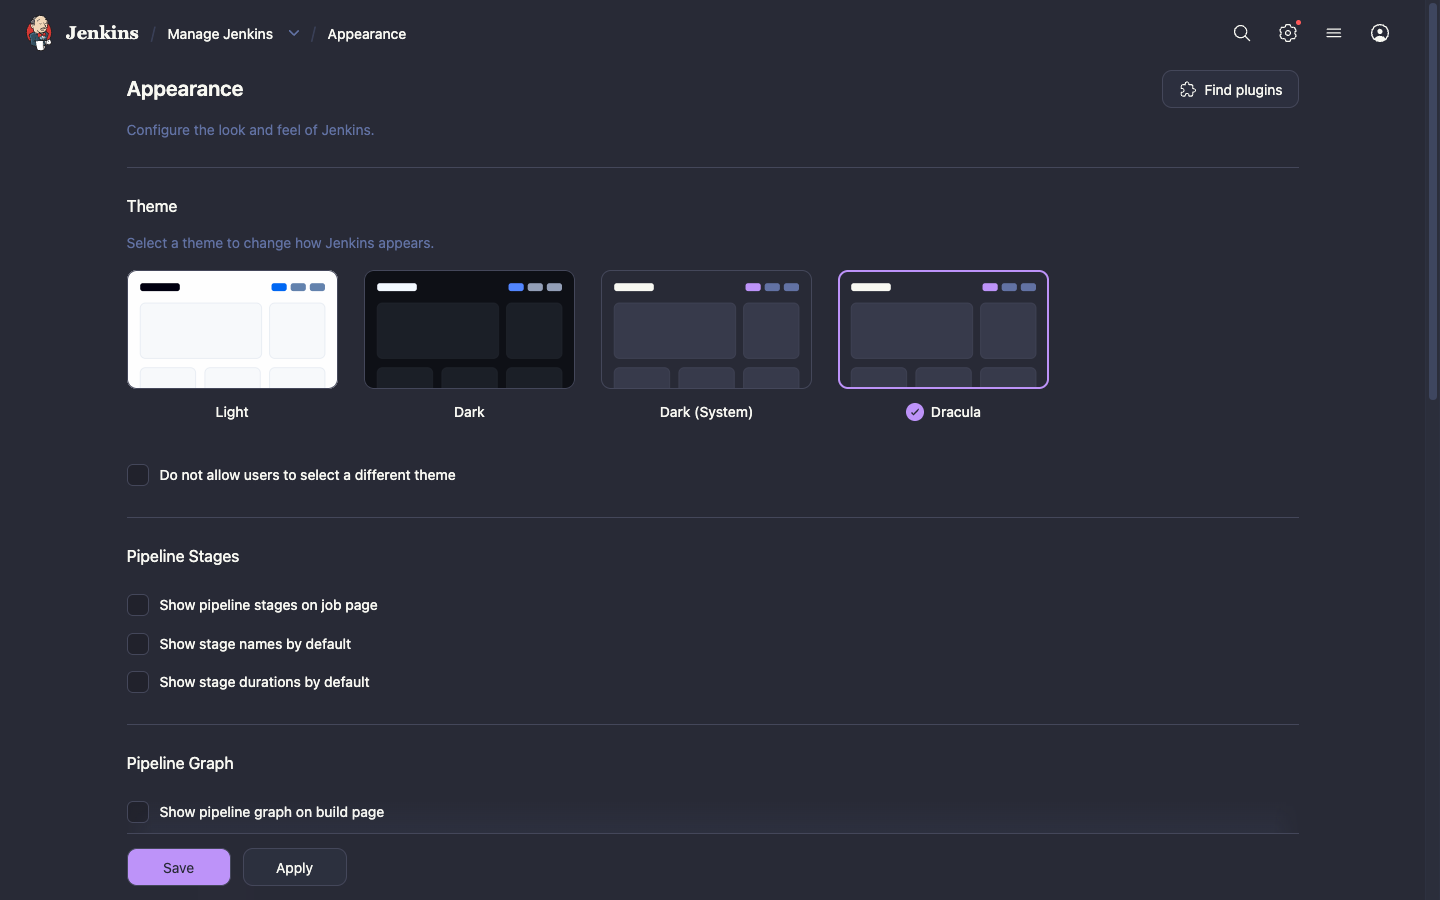
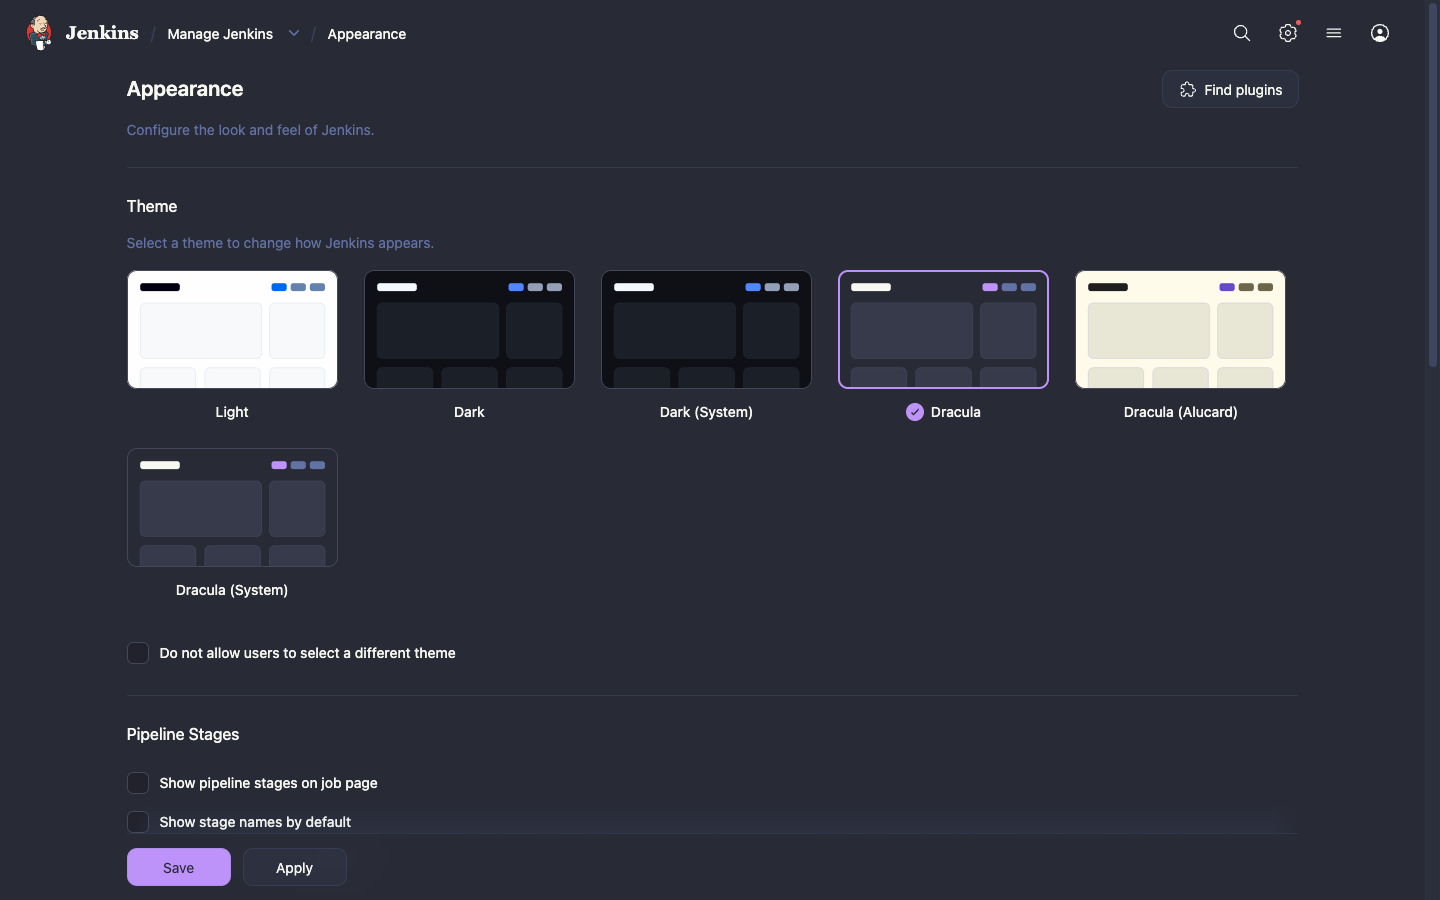
docs(readme): describe the light and system themes

diff --git a/README.md b/README.md
@@ -2,7 +2,7 @@
 
 # 🧛🏻♂ Dracula Theme for Jenkins
 
-A dark theme for Jenkins, built on the official [Dracula](https://draculatheme.com) color palette.
+Dark and light themes for Jenkins, built on the official [Dracula](https://draculatheme.com) color palette.
 
 [![Jenkins Plugin](https://img.shields.io/jenkins/plugin/v/dracula-theme?label=version&style=flat-square&color=bd93f9&labelColor=282a36)](https://plugins.jenkins.io/dracula-theme/)
 [![Build](https://ci.jenkins.io/buildStatus/icon?job=Plugins%2Fdracula-theme-plugin%2Fmain&style=flat-square&subject=build)](https://ci.jenkins.io/job/Plugins/job/dracula-theme-plugin/job/main/)
@@ -14,14 +14,17 @@ A dark theme for Jenkins, built on the official [Dracula](https://draculatheme.c
 
 ## Features
 
-- **The whole Jenkins UI in Dracula colors.** Pages, side panels, cards, tables, forms, buttons, tooltips, dropdowns and dialogs use the [Dracula Classic spec](https://draculatheme.com/spec).
-- **Status colors from the palette.** Successful, failed and unstable builds use Dracula green, red and orange.
-- **Built on Jenkins design tokens.** The theme sets only the Jenkins design tokens, so everything that uses them gets the palette with no extra CSS: [Pipeline Graph View](https://plugins.jenkins.io/pipeline-graph-view/), the Pipeline editor, the Script Console, Prism code views such as JUnit stack traces, and more.
-- **Dark Bootstrap pages.** Bootstrap 5 pages, such as [Warnings Next Generation](https://plugins.jenkins.io/warnings-ng/) and [Coverage](https://plugins.jenkins.io/coverage/), switch to the dark Bootstrap color mode.
-- **Native browser controls in dark mode.** Scrollbars, checkboxes and select menus are dark too.
+- **Three themes.** **Dracula** is the dark theme. **Dracula (Alucard)** uses Alucard, the official light variant of the palette. **Dracula (System)** follows the dark mode setting of the operating system and switches between the two.
+- **The whole Jenkins UI in Dracula colors.** Pages, side panels, cards, tables, forms, buttons, tooltips, dropdowns and dialogs use the colors of the [Dracula spec](https://draculatheme.com/spec).
+- **Status colors from the palette.** Successful, failed and unstable builds use the green, red and orange of the palette.
+- **Built on Jenkins design tokens.** The themes set only the Jenkins design tokens, so everything that uses them gets the palette with no extra CSS: [Pipeline Graph View](https://plugins.jenkins.io/pipeline-graph-view/), the Pipeline editor, the Script Console, Prism code views such as JUnit stack traces, and more.
+- **Bootstrap pages follow the theme.** Bootstrap 5 pages, such as [Warnings Next Generation](https://plugins.jenkins.io/warnings-ng/) and [Coverage](https://plugins.jenkins.io/coverage/), switch to the dark or the light Bootstrap color mode.
+- **Native browser controls to match.** Scrollbars, checkboxes and select menus are dark with Dracula and light with Alucard.
 - **No stale styles after upgrades.** The stylesheet URL has a content hash, so browsers load the new CSS after a plugin update.
 
 ## Screenshots
+
+### Dracula
 
 <table>
   <tr>
@@ -42,10 +45,23 @@ A dark theme for Jenkins, built on the official [Dracula](https://draculatheme.c
   </tr>
 </table>
 
+### Dracula (Alucard)
+
+<table>
+  <tr>
+    <td width="50%"><img src="docs/images/dashboard-light.png" alt="Jenkins dashboard with the Dracula (Alucard) theme"><p align="center"><b>Dashboard</b></p></td>
+    <td width="50%"><img src="docs/images/pipeline-graph-light.png" alt="Pipeline Graph View with a failed stage in the light theme"><p align="center"><b>Pipeline Graph View</b></p></td>
+  </tr>
+  <tr>
+    <td><img src="docs/images/test-result-light.png" alt="JUnit test result with a stack trace in the light theme"><p align="center"><b>JUnit test result</b></p></td>
+    <td><img src="docs/images/warnings-ng-light.png" alt="Warnings Next Generation report in the light theme"><p align="center"><b>Warnings Next Generation</b></p></td>
+  </tr>
+</table>
+
 ## Installation
 
 The plugin needs Jenkins 2.541.3 or newer. The [Theme Manager](https://plugins.jenkins.io/theme-manager/) plugin is installed with it as a dependency.
-The theme was checked page by page on Jenkins 2.580.1 in Chrome.
+The themes were checked page by page on Jenkins 2.580.1 in Chrome.
 
 **From the Update Center:**
 
@@ -60,10 +76,10 @@ The theme was checked page by page on Jenkins 2.580.1 in Chrome.
 
 ## Usage
 
-**For the whole instance:** go to **Manage Jenkins » Appearance**, select **Dracula** and click **Save**.
-To use Dracula for every user, also select **Do not allow users to select a different theme**.
+**For the whole instance:** go to **Manage Jenkins » Appearance**, select **Dracula**, **Dracula (Alucard)** or **Dracula (System)** and click **Save**.
+To use the theme for every user, also select **Do not allow users to select a different theme**.
 
-**For one user:** open your user menu, go to **Appearance** and select **Dracula**.
+**For one user:** open your user menu, go to **Appearance** and select one of the Dracula themes.
 
 ### Configuration as Code
 
@@ -76,23 +92,28 @@ appearance:
     theme: "dracula"
 ```
 
+Use `"draculaAlucard"` for Dracula (Alucard) and `"draculaSystem"` for Dracula (System).
+
 ## Palette
 
-The theme sets these Jenkins design tokens to the Dracula colors:
+The themes set these Jenkins design tokens to the colors of the [Dracula spec](https://draculatheme.com/spec):
 
-| Color        | Hex       | Swatch                                                                         | Jenkins tokens                            |
-| ------------ | --------- | ------------------------------------------------------------------------------ | ----------------------------------------- |
-| Background   | `#282a36` | ![#282a36](https://img.shields.io/badge/%20-282a36?style=flat-square)          | `--background`                            |
-| Selection    | `#44475a` | ![#44475a](https://img.shields.io/badge/%20-44475a?style=flat-square)          | `--selection-color`, border tokens        |
-| Foreground   | `#f8f8f2` | ![#f8f8f2](https://img.shields.io/badge/%20-f8f8f2?style=flat-square)          | `--text-color`                            |
-| Comment      | `#6272a4` | ![#6272a4](https://img.shields.io/badge/%20-6272a4?style=flat-square)          | `--text-color-secondary`, `--indigo`      |
-| Cyan         | `#8be9fd` | ![#8be9fd](https://img.shields.io/badge/%20-8be9fd?style=flat-square)          | `--cyan`, `--teal`                        |
-| Green        | `#50fa7b` | ![#50fa7b](https://img.shields.io/badge/%20-50fa7b?style=flat-square)          | `--green`                                 |
-| Orange       | `#ffb86c` | ![#ffb86c](https://img.shields.io/badge/%20-ffb86c?style=flat-square)          | `--orange`, `--brown`                     |
-| Pink         | `#ff79c6` | ![#ff79c6](https://img.shields.io/badge/%20-ff79c6?style=flat-square)          | `--pink`                                  |
-| Purple       | `#bd93f9` | ![#bd93f9](https://img.shields.io/badge/%20-bd93f9?style=flat-square)          | `--accent-color`, `--blue`, `--purple`    |
-| Red          | `#ff5555` | ![#ff5555](https://img.shields.io/badge/%20-ff5555?style=flat-square)          | `--red`                                   |
-| Yellow       | `#f1fa8c` | ![#f1fa8c](https://img.shields.io/badge/%20-f1fa8c?style=flat-square)          | `--yellow`                                |
+| Color                | Dracula                                                                          | Alucard                                                                          | Jenkins tokens                                  |
+| -------------------- | -------------------------------------------------------------------------------- | -------------------------------------------------------------------------------- | ----------------------------------------------- |
+| Background           | ![#282a36](https://img.shields.io/badge/%20-282a36?style=flat-square) `#282a36`  | ![#fffbeb](https://img.shields.io/badge/%20-fffbeb?style=flat-square) `#fffbeb`  | `--background`                                  |
+| Cards and tables     | ![#353747](https://img.shields.io/badge/%20-353747?style=flat-square) `#353747`  | ![#efeddc](https://img.shields.io/badge/%20-efeddc?style=flat-square) `#efeddc`  | `--card-background`, `--table-background`, `--light-grey`, `--very-light-grey` |
+| Floating surfaces    | ![#343746](https://img.shields.io/badge/%20-343746?style=flat-square) `#343746`  | ![#efeddc](https://img.shields.io/badge/%20-efeddc?style=flat-square) `#efeddc`  | `--overlay-surface-background`                  |
+| Inputs               | ![#21222c](https://img.shields.io/badge/%20-21222c?style=flat-square) `#21222c`  | ![#fffbeb](https://img.shields.io/badge/%20-fffbeb?style=flat-square) `#fffbeb`  | `--input-color`                                 |
+| Selection            | ![#44475a](https://img.shields.io/badge/%20-44475a?style=flat-square) `#44475a`  | ![#cfcfde](https://img.shields.io/badge/%20-cfcfde?style=flat-square) `#cfcfde`  | `--selection-color`, border tokens, `--medium-grey` |
+| Foreground           | ![#f8f8f2](https://img.shields.io/badge/%20-f8f8f2?style=flat-square) `#f8f8f2`  | ![#1f1f1f](https://img.shields.io/badge/%20-1f1f1f?style=flat-square) `#1f1f1f`  | `--text-color`                                  |
+| Comment              | ![#6272a4](https://img.shields.io/badge/%20-6272a4?style=flat-square) `#6272a4`  | ![#6c664b](https://img.shields.io/badge/%20-6c664b?style=flat-square) `#6c664b`  | `--text-color-secondary`, `--indigo`            |
+| Cyan                 | ![#8be9fd](https://img.shields.io/badge/%20-8be9fd?style=flat-square) `#8be9fd`  | ![#036a96](https://img.shields.io/badge/%20-036a96?style=flat-square) `#036a96`  | `--cyan`, `--teal`                              |
+| Green                | ![#50fa7b](https://img.shields.io/badge/%20-50fa7b?style=flat-square) `#50fa7b`  | ![#14710a](https://img.shields.io/badge/%20-14710a?style=flat-square) `#14710a`  | `--green`                                       |
+| Orange               | ![#ffb86c](https://img.shields.io/badge/%20-ffb86c?style=flat-square) `#ffb86c`  | ![#a34d14](https://img.shields.io/badge/%20-a34d14?style=flat-square) `#a34d14`  | `--orange`, `--brown`                           |
+| Pink                 | ![#ff79c6](https://img.shields.io/badge/%20-ff79c6?style=flat-square) `#ff79c6`  | ![#a3144d](https://img.shields.io/badge/%20-a3144d?style=flat-square) `#a3144d`  | `--pink`                                        |
+| Purple               | ![#bd93f9](https://img.shields.io/badge/%20-bd93f9?style=flat-square) `#bd93f9`  | ![#644ac9](https://img.shields.io/badge/%20-644ac9?style=flat-square) `#644ac9`  | `--accent-color`, `--blue`, `--purple`          |
+| Red                  | ![#ff5555](https://img.shields.io/badge/%20-ff5555?style=flat-square) `#ff5555`  | ![#cb3a2a](https://img.shields.io/badge/%20-cb3a2a?style=flat-square) `#cb3a2a`  | `--red`                                         |
+| Yellow               | ![#f1fa8c](https://img.shields.io/badge/%20-f1fa8c?style=flat-square) `#f1fa8c`  | ![#846e15](https://img.shields.io/badge/%20-846e15?style=flat-square) `#846e15`  | `--yellow`                                      |
 
 ## Development
 
@@ -107,12 +128,12 @@ mvn verify
 ```
 
 All styles are in [`src/main/webapp/dracula.css`](src/main/webapp/dracula.css).
-The theme is scoped to `[data-theme=dracula]`, so it has no effect when a user selects a different theme.
+Each theme is scoped to its own key, `[data-theme=dracula]`, `[data-theme=dracula-alucard]` or `[data-theme=dracula-system]`, so the stylesheet has no effect when a user selects a different theme.
 
 ## Contributing
 
 Bug reports and pull requests are welcome. If a Jenkins page looks wrong with the theme, open an issue with a screenshot and the Jenkins version.
-The theme sets only the Jenkins design tokens. If a plugin page does not follow the theme, the plugin most likely uses its own colors, so please report it to that plugin.
+The themes set only the Jenkins design tokens. If a plugin page does not follow the theme, the plugin most likely uses its own colors, so please report it to that plugin.
 See the [Jenkins contribution guidelines](https://github.com/jenkinsci/.github/blob/master/CONTRIBUTING.md) for general rules.
 
 ## License
